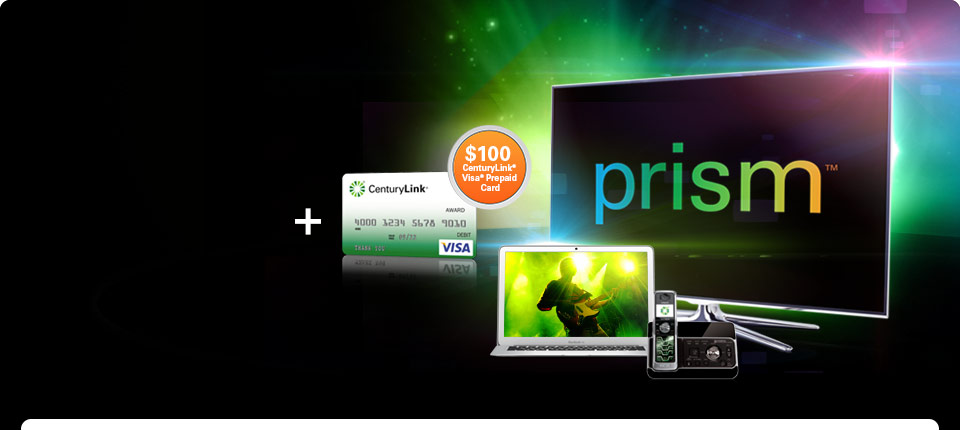
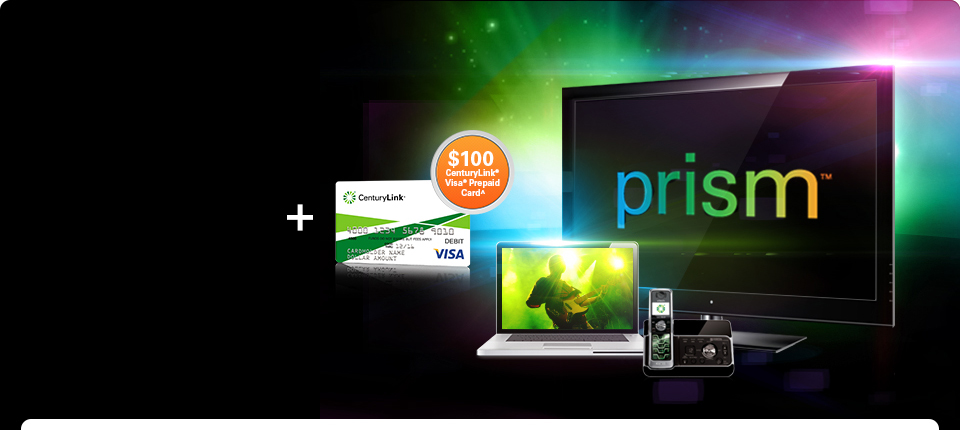
pushing up tvspecials

Changed region(s): [[0.2812, 0.0, 1.0, 0.9372], [0.8125, 0.8465, 0.875, 0.907]]

diff --git a/prism/tvspecials/css/main.css b/prism/tvspecials/css/main.css
@@ -179,7 +179,7 @@ margin-left: 235px;
 	-webkit-box-sizing: border-box;
 	-moz-box-sizing: border-box;
 	box-sizing: border-box;
-	padding: 55px 440px 0 55px;
+	padding: 55px 440px 0 65px;
 }
 #header h1 {
 	color: #FFF;

diff --git a/prism/tvspecials/index.php b/prism/tvspecials/index.php
@@ -7,14 +7,14 @@
 			$phone="866-960-7089";
 			$price="$150";
 			$bgimg = "images/ens-header.jpg";
-			$bankdisclaimer = "Card issued by MetaBank™, Member FDIC, pursuant to a license from Visa U.S.A., Inc.";
+			$bankdisclaimer = "Card issued by MetaBank&trade;, Member FDIC, pursuant to a license from Visa U.S.A., Inc.";
 			$bundle = "Bundle with Prism<sup>&trade;</sup> TV and receive a";
 		} 
 		if($_GET["m"]=="c"){
 			$phone="800-960-2531";
 			$price="$150";
 			$bgimg = "images/cris-header.jpg";
-			$bankdisclaimer = "Card issued by J.P. Morgan Chase Bank, N.A. pursuant to a license from Visa U.S.A. Inc.";
+			$bankdisclaimer = "Card issued by MetaBank&trade;, Member FDIC, pursuant to a license from Visa U.S.A., Inc.";
 			$bundle = "Bundle with Prism<sup>&trade;</sup> TV and receive a";
 		}
 	}
